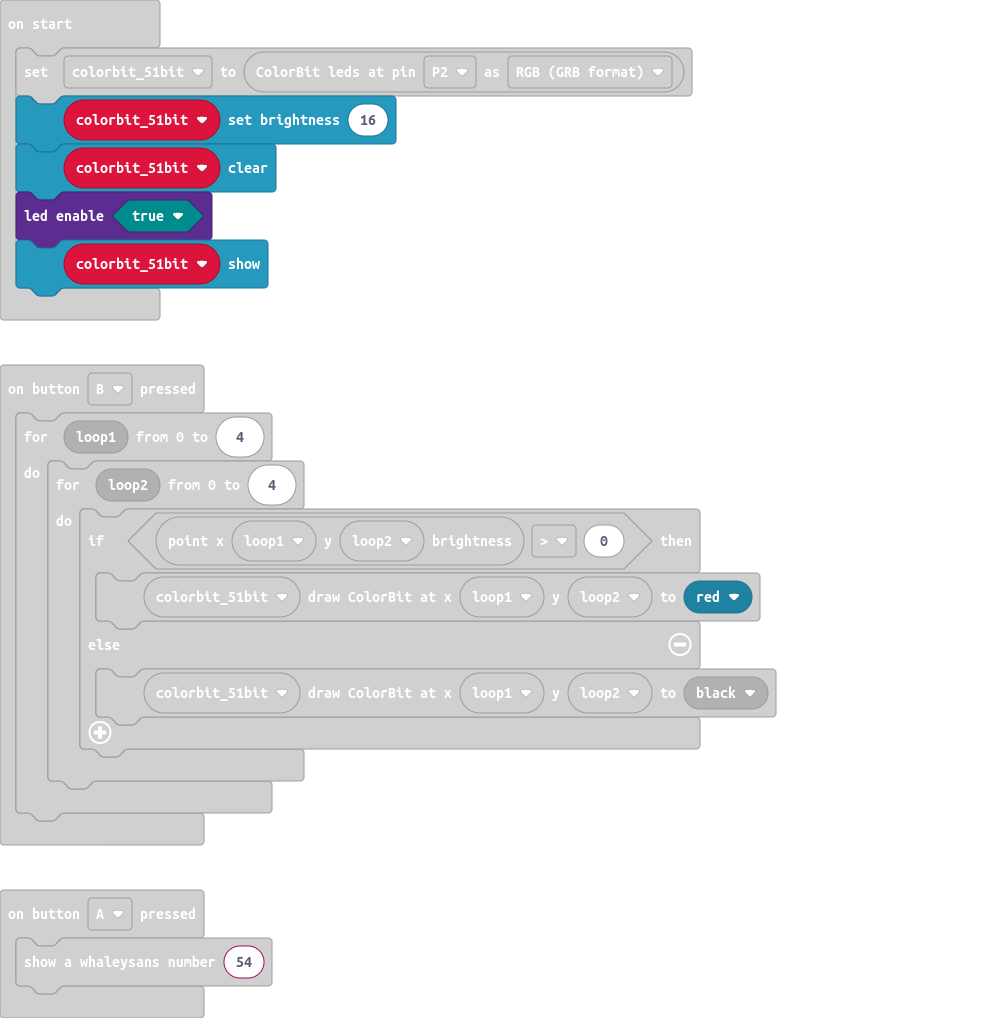
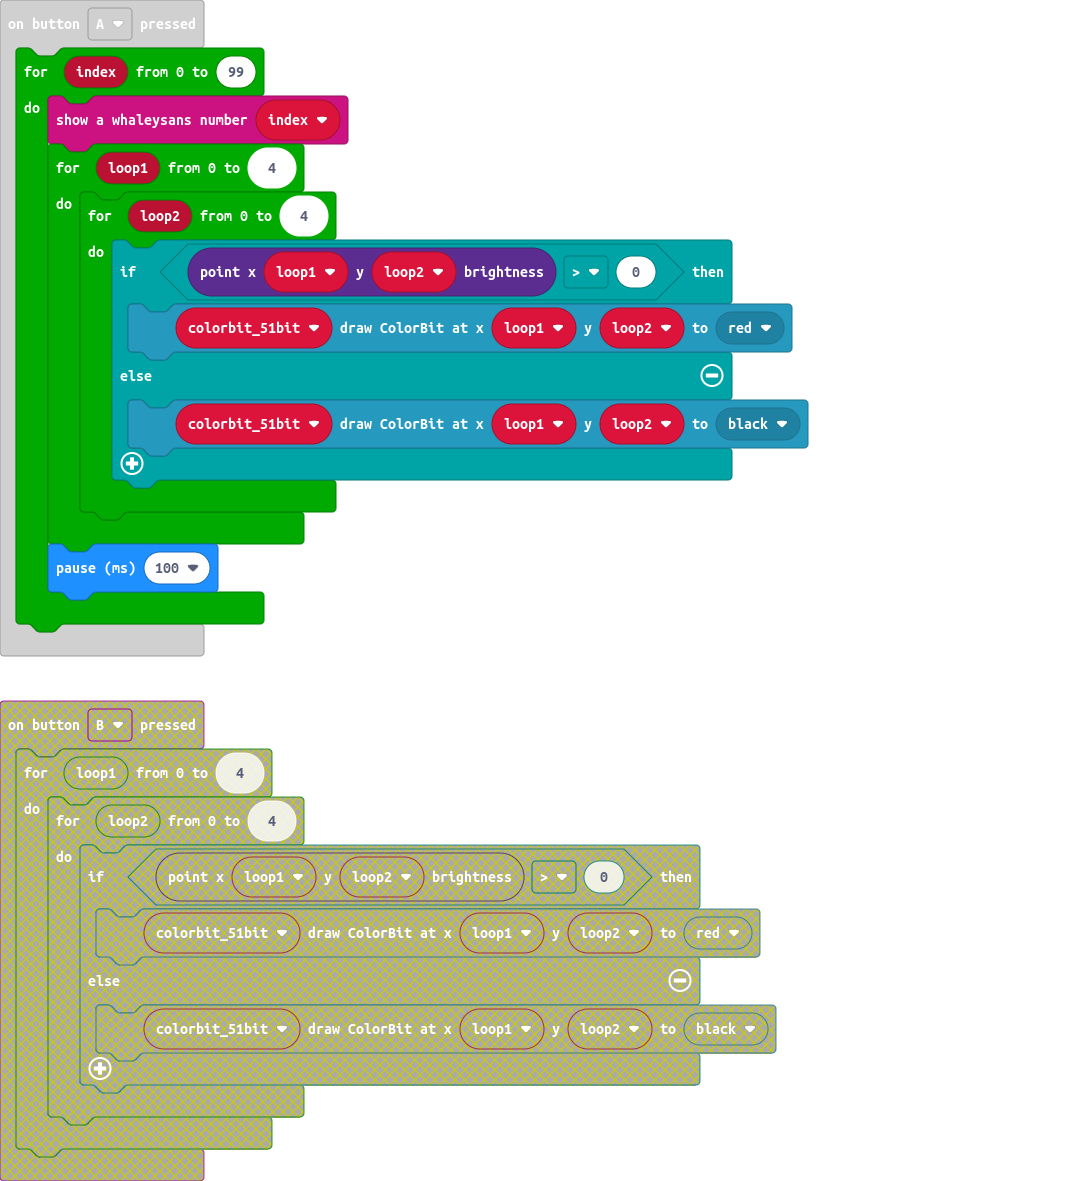
test loop 0 - 99

diff --git a/main.ts b/main.ts
@@ -1,5 +1,17 @@
 input.onButtonPressed(Button.A, function () {
-    whaleysans.showNumber(54)
+    for (let index = 0; index <= 99; index++) {
+        whaleysans.showNumber(index)
+        for (let loop1 = 0; loop1 <= 4; loop1++) {
+            for (let loop2 = 0; loop2 <= 4; loop2++) {
+                if (led.pointBrightness(loop1, loop2) > 0) {
+                    colorbit_51bit.drawColorBit(loop1, loop2, colorbit.colors(BitColors.Red))
+                } else {
+                    colorbit_51bit.drawColorBit(loop1, loop2, colorbit.colors(BitColors.Black))
+                }
+            }
+        }
+        basic.pause(100)
+    }
 })
 input.onButtonPressed(Button.AB, function () {
     colorbit_51bit.clear()
@@ -10,17 +22,6 @@ input.onButtonPressed(Button.AB, function () {
         . . . . .
         . . . . .
         `)
-})
-input.onButtonPressed(Button.B, function () {
-    for (let loop1 = 0; loop1 <= 4; loop1++) {
-        for (let loop2 = 0; loop2 <= 4; loop2++) {
-            if (led.pointBrightness(loop1, loop2) > 0) {
-                colorbit_51bit.drawColorBit(loop1, loop2, colorbit.colors(BitColors.Red))
-            } else {
-                colorbit_51bit.drawColorBit(loop1, loop2, colorbit.colors(BitColors.Black))
-            }
-        }
-    }
 })
 let colorbit_51bit: colorbit.Strip = null
 colorbit_51bit = colorbit.initColorBit(DigitalPin.P2, BitColorMode.RGB)
